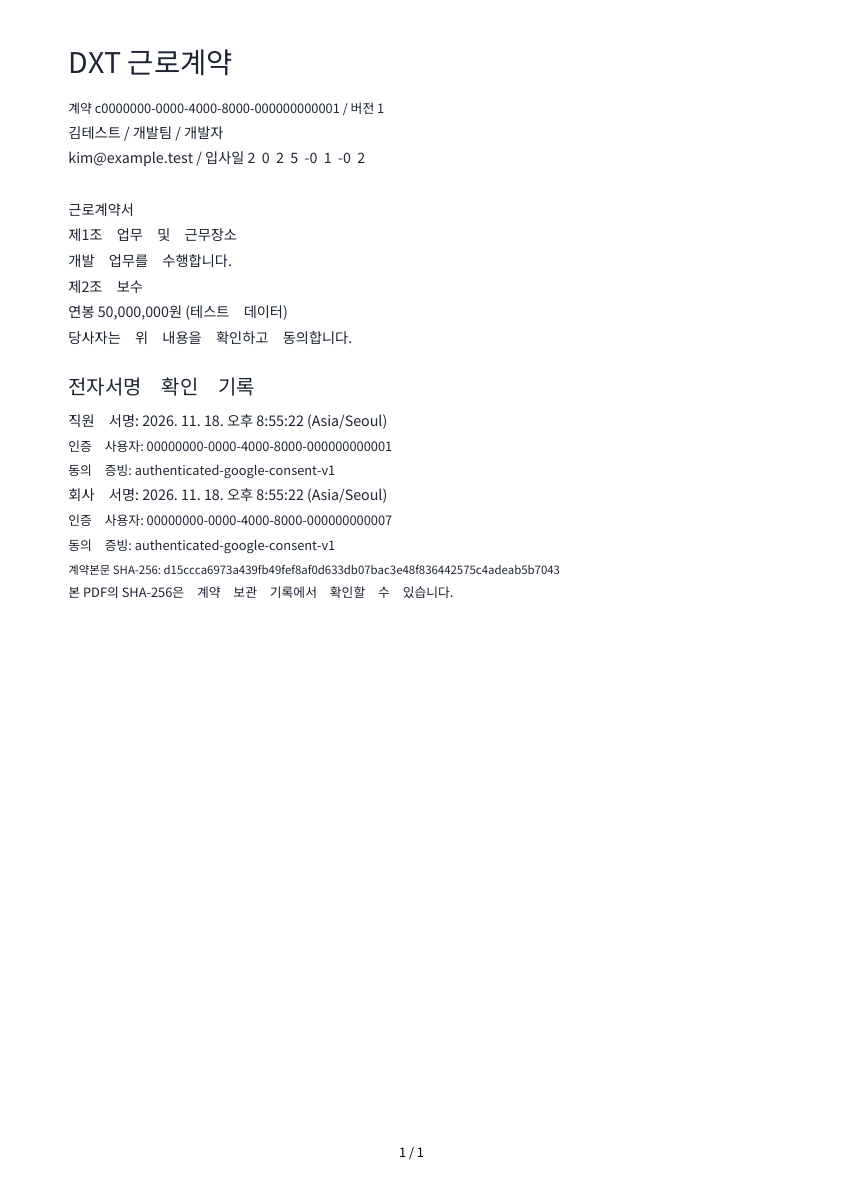
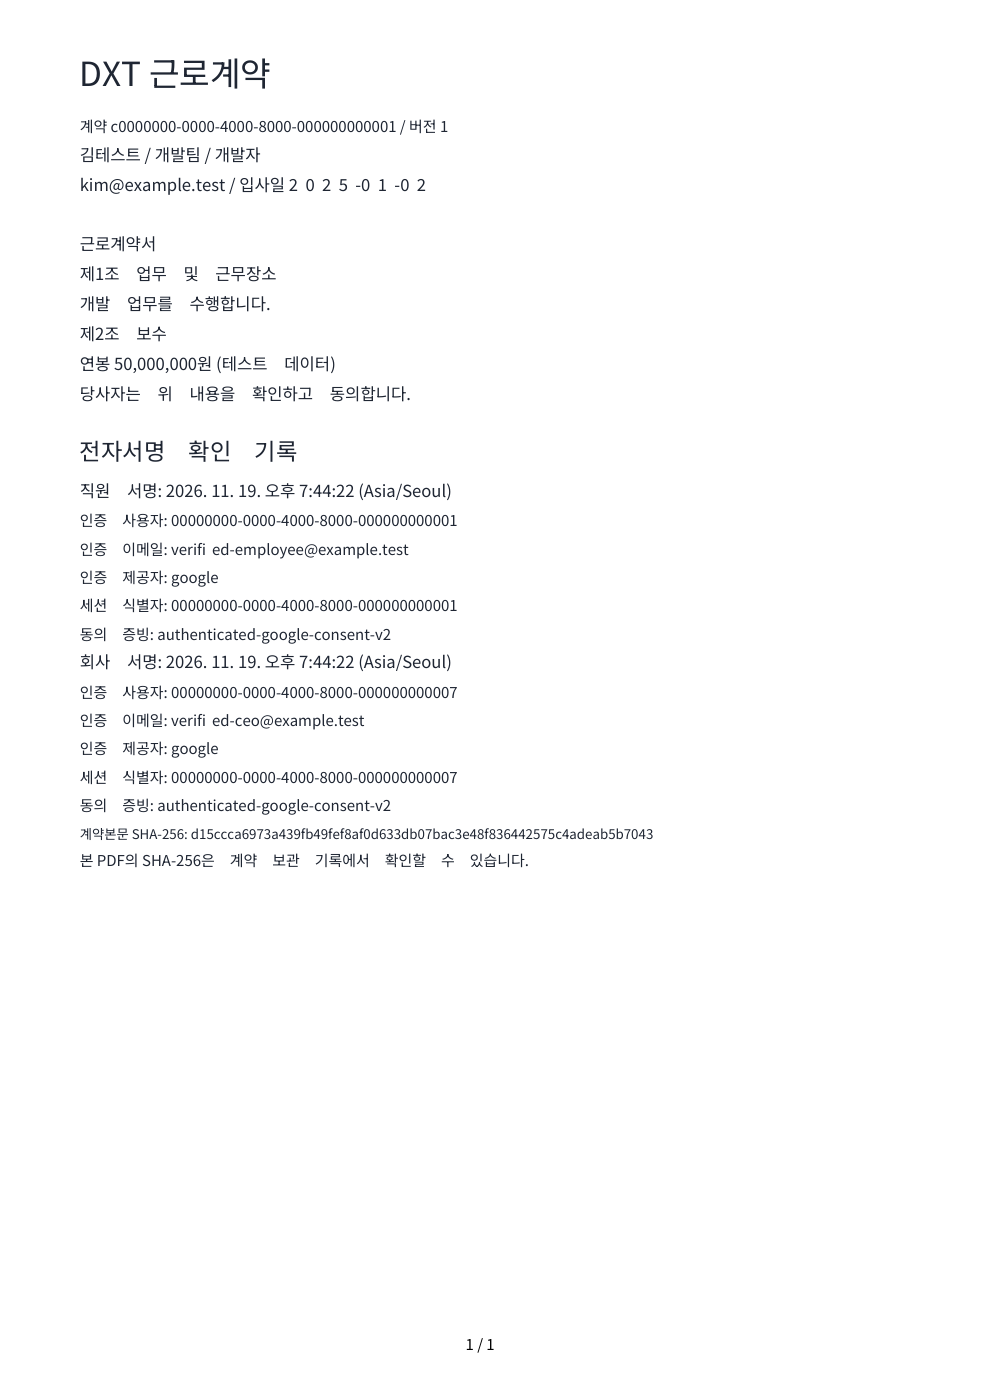
Harden contract signatures with trusted session and identity evidence

diff --git a/tests/contracts.test.ts b/tests/contracts.test.ts
@@ -81,7 +81,56 @@ test('decline is own-only and terminal; managers cannot counterfeit an employee 
 
 test('password/magic-link/non-Google sessions cannot sign despite a linked Google identity',async()=>{const db=await contractsDatabase();try{
  for(const claims of [{amr:[{method:'password'}],app_metadata:{provider:'google'}},{amr:[{method:'magiclink'}],app_metadata:{provider:'google'}},{amr:[{method:'oauth'}],app_metadata:{provider:'github'}},{}]){
- await denied(()=>asUser(db,'employee',async tx=>{await tx.query("select set_config('request.jwt.claims',$1,true)",[JSON.stringify(claims)]);return tx.query('select sign_employee_contract($1,1,$2,true)',[contractId,contractHash]);}));
- await denied(()=>asUser(db,'ceo',async tx=>{await tx.query("select set_config('request.jwt.claims',$1,true)",[JSON.stringify(claims)]);return tx.query('select sign_company_contract($1,1,$2,true)',[contractId,contractHash]);}));
+ await denied(()=>asUser(db,'employee',async tx=>{await tx.query("select set_config('request.jwt.claims',$1,true)",[JSON.stringify({session_id:idFor('employee'),...claims})]);return tx.query('select sign_employee_contract($1,1,$2,true)',[contractId,contractHash]);}));
+ await denied(()=>asUser(db,'ceo',async tx=>{await tx.query("select set_config('request.jwt.claims',$1,true)",[JSON.stringify({session_id:idFor('ceo'),...claims})]);return tx.query('select sign_company_contract($1,1,$2,true)',[contractId,contractHash]);}));
  }
+}finally{await db.close();}});
+
+test('both signers require a valid, owned, unexpired session and confirmed DB email',async()=>{const db=await contractsDatabase();try{
+ const oauth={amr:[{method:'oauth'}],app_metadata:{provider:'google'}};
+ for(const [role,rpc] of [['employee','sign_employee_contract'],['ceo','sign_company_contract']]){
+  for(const session of [undefined,null,'',123,{},'not-a-uuid','00000000-0000-0000-0000-000000000000',idFor('expense')]){
+   await denied(()=>asUser(db,role,async tx=>{await tx.query("select set_config('request.jwt.claims',$1,true)",[JSON.stringify({...oauth,session_id:session})]);return tx.query(`select ${rpc}($1,1,$2,true)`,[contractId,contractHash]);}));
+  }
+  await db.query("update auth.sessions set not_after=now()-interval '1 second' where user_id=$1",[idFor(role)]);
+  await denied(()=>asUser(db,role,tx=>tx.query(`select ${rpc}($1,1,$2,true)`,[contractId,contractHash])));
+  await db.query('update auth.sessions set not_after=null where user_id=$1',[idFor(role)]);
+  await db.query('update auth.users set email_confirmed_at=null where id=$1',[idFor(role)]);
+  await denied(()=>asUser(db,role,tx=>tx.query(`select ${rpc}($1,1,$2,true)`,[contractId,contractHash])));
+  await db.query('update auth.users set email_confirmed_at=now() where id=$1',[idFor(role)]);
+  if(role==='employee')await asUser(db,role,tx=>tx.query(`select ${rpc}($1,1,$2,true)`,[contractId,contractHash]));
+ }
+ assert.equal((await db.query("select * from employment_contract_signature where party='COMPANY'")).rows.length,0);
+}finally{await db.close();}});
+
+test('evidence is DB-sourced, has no caller inputs, survives replay, email changes and session deletion',async()=>{const db=await contractsDatabase();try{
+ for(const [role,rpc,email] of [['employee','sign_employee_contract','verified-employee@example.test'],['ceo','sign_company_contract','verified-ceo@example.test']]){
+  const args=(await db.query<{proargnames:string[]}>('select proargnames from pg_proc where proname=$1',[rpc])).rows;
+  assert.deepEqual(args,[{proargnames:['p_id','p_version','p_hash','p_consent']}]);
+  await denied(()=>asUser(db,role,tx=>tx.query(`select ${rpc}($1,1,$2,true,p_email=>'forged@example.test')`,[contractId,contractHash])));
+  await asUser(db,role,async tx=>{await tx.query("select set_config('request.jwt.claims',$1,true)",[JSON.stringify({session_id:idFor(role),email:'forged@example.test',amr:[{method:'oauth'}],app_metadata:{provider:'google'},user_metadata:{email:'forged@example.test',provider:'github',session_id:idFor('expense')}})]);await tx.query(`select ${rpc}($1,1,$2,true)`,[contractId,contractHash]);});
+  const read=()=>db.query<Signature>('select * from employment_contract_signature where contract_id=$1 and actor_id=$2',[contractId,idFor(role)]);
+  const before=(await read()).rows[0];assert.equal(before.auth_session_id,idFor(role));assert.equal(before.authenticated_email,email);assert.equal(before.auth_provider,'google');assert.equal(before.evidence,'authenticated-google-consent-v2');assert.equal(before.body_sha256,contractHash);
+  const replacement=role==='employee'?'d0000000-0000-4000-8000-000000000001':'d0000000-0000-4000-8000-000000000002';
+  await db.query('insert into auth.sessions(id,user_id) values($1,$2)',[replacement,idFor(role)]);
+  await db.query("update auth.users set email='changed@example.test' where id=$1",[idFor(role)]);
+  await asUser(db,role,async tx=>{await tx.query("select set_config('request.jwt.claims',$1,true)",[JSON.stringify({session_id:replacement,amr:[{method:'oauth'}],app_metadata:{provider:'google'}})]);await tx.query(`select ${rpc}($1,1,$2,true)`,[contractId,contractHash]);});
+  assert.deepEqual((await read()).rows[0],before);
+  await db.query('delete from auth.sessions where user_id=$1',[idFor(role)]);
+  await denied(()=>asUser(db,role,tx=>tx.query(`select ${rpc}($1,1,$2,true)`,[contractId,contractHash])));
+  assert.deepEqual((await read()).rows[0],before);
+  await denied(()=>db.query("update employment_contract_signature set authenticated_email='forged@example.test' where actor_id=$1",[idFor(role)]));
+ }
+ assert.equal((await db.query("select * from employment_contract_event where action in ('EMPLOYEE_SIGNED','COMPANY_SIGNED')")).rows.length,2);
+}finally{await db.close();}});
+
+test('evidence migration preserves old signatures without fabricating a historical session',async()=>{const db=await contractsDatabase({legacyEvidence:true});try{
+ await asUser(db,'employee',tx=>tx.query('select sign_employee_contract($1,1,$2,true)',[contractId,contractHash]));
+ const before=(await db.query<Signature>('select * from employment_contract_signature')).rows[0];
+ await db.exec((await import('node:fs')).readFileSync('supabase/migrations/20261119104141_contract_signature_evidence.sql','utf8'));
+ const after=(await db.query('select * from employment_contract_signature')).rows[0];assert.deepEqual(after,{...before,auth_session_id:null,authenticated_email:null,auth_provider:null});
+ await asUser(db,'employee',tx=>tx.query('select sign_employee_contract($1,1,$2,true)',[contractId,contractHash]));
+ assert.deepEqual((await db.query('select * from employment_contract_signature')).rows[0],after);
+ await asUser(db,'ceo',tx=>tx.query('select sign_company_contract($1,1,$2,true)',[contractId,contractHash]));
+ assert.equal((await db.query<{auth_provider:string}>("select auth_provider from employment_contract_signature where party='COMPANY'")).rows[0].auth_provider,'google');
 }finally{await db.close();}});

diff --git a/tests/e2e/contracts.spec.ts b/tests/e2e/contracts.spec.ts
@@ -1,5 +1,5 @@
 import { test,expect } from '@playwright/test';
-import { loginAs,tokenFor } from './fixtures';
+import { loginAs,tokenFor,idFor } from './fixtures';
 const own='c0000000-0000-4000-8000-000000000001',other='c0000000-0000-4000-8000-000000000002';
 test('contract UUID, history, PDF, forged RPC and private-admin boundaries',async({page,context,request})=>{
  for(const role of ['employee','leader','admin']){
@@ -21,7 +21,11 @@ test('employee views/signs, CEO signs, PDF is private and immutable',async({page
  await loginAs(context,'employee');const response=await page.goto(`/contracts/me/${own}`);expect(response?.headers()['cache-control']).toContain('no-store');
  await expect(page.getByText('직원 열람 · 버전 1', {exact:false})).toBeVisible();
  await page.screenshot({path:'docs/screenshots/contracts-employee.png',fullPage:true});
- const employeeForm=page.locator('form').filter({has:page.getByRole('button',{name:'직원 서명',exact:true})});await employeeForm.getByRole('checkbox').check();await employeeForm.getByRole('button').click();await expect(page.getByText('직원 서명 완료 · 버전 1',{exact:false})).toBeVisible();
+ const employeeForm=page.locator('form').filter({has:page.getByRole('button',{name:'직원 서명',exact:true})});await employeeForm.getByRole('checkbox').check();
+ await employeeForm.evaluate(form=>{for(const [name,value] of Object.entries({authenticated_email:'forged@example.test',auth_provider:'github',auth_session_id:'00000000-0000-0000-0000-000000000000'})){const input=document.createElement('input');input.type='hidden';input.name=name;input.value=value;form.appendChild(input);}});
+ await employeeForm.getByRole('button').click();await expect(page.getByText('직원 서명 완료 · 버전 1',{exact:false})).toBeVisible();
+ const evidence=await context.request.get(`http://localhost:54329/rest/v1/employment_contract_signature?select=authenticated_email,auth_provider,auth_session_id&contract_id=eq.${own}`,{headers:{Authorization:`Bearer ${tokenFor('employee')}`}});
+ expect(await evidence.json()).toEqual([expect.objectContaining({authenticated_email:'verified-employee@example.test',auth_provider:'google',auth_session_id:idFor('employee')})]);
  await loginAs(context,'ceo');await page.goto(`/admin/contracts/${own}`);await page.screenshot({path:'docs/screenshots/contracts-ceo.png',fullPage:true});
  const company=page.locator('form').filter({has:page.getByRole('button',{name:'CEO 회사 서명',exact:true})});await company.getByRole('checkbox').check();await company.getByRole('button').click();
  await expect(page.getByRole('link',{name:'완료 PDF 다운로드'})).toBeVisible({timeout:30000});
@@ -39,4 +43,10 @@ test('designated admin creates template and bulk drafts, previews/revises before
  await page.getByRole('button',{name:'계약 초안 생성'}).click();await expect(page.getByRole('status').filter({hasText:'2건'})).toBeVisible();await page.getByRole('link',{name:'작성한 계약 미리보기'}).click();await expect(page.getByRole('heading',{name:'발송 전 미리보기'})).toBeVisible();
  await page.getByText('본문 수정 · 새 버전 작성',{exact:true}).click();await page.getByLabel('계약본문',{exact:true}).fill('새 버전 테스트 조항');await page.getByRole('button',{name:'새 버전 저장'}).click();await expect(page.getByText('작성 중 · 버전 2',{exact:false})).toBeVisible();
  await page.getByRole('button',{name:'미리보기 확인 · 발송 준비'}).click();await expect(page.getByRole('button',{name:'직원 서명 요청',exact:true})).toBeVisible();await page.getByRole('button',{name:'직원 서명 요청',exact:true}).click();await expect(page.getByText('서명 요청 · 버전 2',{exact:false})).toBeVisible();
+});
+
+test('signature RPCs expose no client email, provider or session inputs',async({request})=>{
+ for(const [role,rpc] of [['employee','sign_employee_contract'],['ceo','sign_company_contract']])for(const [key,value] of Object.entries({p_email:'forged@example.test',p_provider:'google',p_session_id:idFor(role)})){
+  const response=await request.post(`http://localhost:54329/rest/v1/rpc/${rpc}`,{headers:{Authorization:`Bearer ${tokenFor(role)}`},data:{p_id:own,p_version:1,p_hash:'a'.repeat(64),p_consent:true,[key]:value}});expect(response.ok()).toBe(false);
+ }
 });

diff --git a/tests/e2e/mock-supabase.ts b/tests/e2e/mock-supabase.ts
@@ -78,6 +78,7 @@ const server = createServer(async (request, response) => {
      if(rpc) {
       const args: Record<string,string[]>= {create_contract_template:['p_id','p_name','p_body'],create_employment_contracts:['p_items','p_template'],revise_employment_contract:['p_id','p_version','p_body','p_hash'],transition_employment_contract:['p_id','p_version','p_action'],sign_employee_contract:['p_id','p_version','p_hash','p_consent'],sign_company_contract:['p_id','p_version','p_hash','p_consent'],complete_employment_contract:['p_id','p_version','p_path','p_hash'],leave_today:[],leave_summary:['p_employee','p_year'],leave_calendar:['p_month'],leave_reviewer:['p_employee'],submit_leave:['p_id','p_start','p_end','p_unit','p_reason','p_past_reason'],review_leave:['p_items','p_action','p_note'],adjust_leave:['p_employee','p_year','p_delta','p_reason','p_version'],enqueue_company_mail:['p_family_only','p_birthdays'],claim_company_mail:['p_family_only'],finish_company_mail:['p_id','p_token','p_message_id','p_uncertain'],start_operation:['p_id','p_kind','p_employee','p_date'],save_operation_task:['p_id','p_status','p_memo','p_owners','p_version'],save_operation_case:['p_id','p_date','p_leave','p_complete','p_version'],save_resignation_reason:['p_id','p_ciphertext','p_version'],reveal_resignation_reason:['p_id'],reserve_resignation_document:['p_id','p_filename','p_mime','p_size'],finish_resignation_document:['p_id'],record_resignation_download:['p_id'],save_announcement:['p_id','p_title','p_body','p_publish','p_version'],save_family_registration:['p_id','p_category','p_date','p_title','p_details','p_version'],publish_family_post:['p_id','p_title','p_body','p_publish','p_version'],family_notification_status:['p_id'],save_birthday_template:['p_year','p_subject','p_body','p_version'],save_employee_with_birthday:['p_id','p_profile','p_expected_version','p_birth_ciphertext','p_clear_birth','p_private_ciphertext','p_month','p_day'],save_asset:['p_id','p_values','p_expected_version'],delete_asset:['p_id','p_expected_version'],save_vault_entry:['p_id','p_kind','p_values','p_ciphertext','p_expected_version'],reveal_vault_entry:['p_id','p_kind'],delete_vault_entry:['p_id','p_kind','p_expected_version'],expense_dining_available:['p_month','p_items'],ensure_expense_claim:['p_month'],reserve_expense_attachment:['p_claim','p_filename','p_mime','p_size'],finish_expense_attachment:['p_id'],save_expense_items:['p_claim','p_items','p_reason'],submit_expense_claim:['p_claim','p_version','p_reason'],manage_expense_claim:['p_claim','p_version','p_action'],can_read_career:['p_employee'],current_employee_id:[],save_project:['p_id','p_values','p_expected_version'],save_assignment:['p_id','p_values','p_expected_version'],save_career:['p_id','p_values','p_expected_version'],delete_project_record:['p_kind','p_id','p_expected_version'],has_app_capability:['requested'],save_employee_profile:['p_id','p_profile','p_expected_version','p_birth_ciphertext','p_clear_birth','p_private_ciphertext'],save_private_hr:['p_employee_id','p_ciphertext','p_expected_version'],record_private_hr_view:['p_employee_id'],record_birth_view:['p_employee_id']};
       if(!args[rpc]) throw new Error('Unsupported test RPC');
+      if(Object.keys(input).some(key=>!args[rpc].includes(key)))throw new Error('Unknown RPC argument');
       const params=args[rpc].map(key=>key==='p_items'?JSON.stringify(input[key]):input[key] ?? null);
       const r=await tx.query<{result: unknown}>(`select public.${rpc}(${params.map((_,i)=>'$'+(i+1)).join(',')}) as result`,params);
       const value=r.rows[0].result;

diff --git a/src/lib/contracts/types.ts b/src/lib/contracts/types.ts
@@ -1,13 +1,13 @@
 export const CONTRACT_COLUMNS='id,employee_id,employee_snapshot,template_id,status,current_version,created_by,created_at,sent_at,first_viewed_at,employee_signed_at,company_signed_at,completed_at,pdf_path,pdf_sha256';
 export const VERSION_COLUMNS='contract_id,version,encrypted_body,body_sha256,created_by,created_at';
-export const SIGNATURE_COLUMNS='contract_id,version,party,actor_id,signed_at,body_sha256,evidence';
+export const SIGNATURE_COLUMNS='contract_id,version,party,actor_id,signed_at,body_sha256,evidence,auth_session_id,authenticated_email,auth_provider';
 export const EVENT_COLUMNS='id,contract_id,action,actor_id,occurred_at';
 export const TEMPLATE_COLUMNS='id,name,encrypted_body,active,created_by,created_at';
 export type ContractStatus='DRAFT'|'READY_TO_SEND'|'SENT'|'VIEWED'|'EMPLOYEE_SIGNED'|'COMPLETED'|'CANCELLED'|'DECLINED';
 export const STATUS_LABELS:Record<ContractStatus,string>={DRAFT:'작성 중',READY_TO_SEND:'발송 준비',SENT:'서명 요청',VIEWED:'직원 열람',EMPLOYEE_SIGNED:'직원 서명 완료',COMPLETED:'완료',CANCELLED:'취소',DECLINED:'서명 거절'};
 export interface Contract {id:string;employee_id:string;employee_snapshot:{name:string;department:string|null;title:string;email:string;hire_date:string};template_id:string|null;status:ContractStatus;current_version:number;created_by:string;created_at:string;sent_at:string|null;first_viewed_at:string|null;employee_signed_at:string|null;company_signed_at:string|null;completed_at:string|null;pdf_path:string|null;pdf_sha256:string|null}
 export interface ContractVersion {contract_id:string;version:number;encrypted_body:string;body_sha256:string;created_by:string;created_at:string}
-export interface Signature {contract_id:string;version:number;party:'EMPLOYEE'|'COMPANY';actor_id:string;signed_at:string;body_sha256:string;evidence:string}
+export interface Signature {contract_id:string;version:number;party:'EMPLOYEE'|'COMPANY';actor_id:string;signed_at:string;body_sha256:string;evidence:string;auth_session_id:string|null;authenticated_email:string|null;auth_provider:string|null}
 export interface ContractEvent {id:string;contract_id:string;action:string;actor_id:string|null;occurred_at:string}
 export interface Template {id:string;name:string;encrypted_body:string;active:boolean;created_by:string;created_at:string}
 export const seoulTime=(value:string|null)=>value?new Intl.DateTimeFormat('ko-KR',{timeZone:'Asia/Seoul',dateStyle:'medium',timeStyle:'medium'}).format(new Date(value)):'—';

diff --git a/tests/contracts-fixture.ts b/tests/contracts-fixture.ts
@@ -8,10 +8,12 @@ export const contractId='c0000000-0000-4000-8000-000000000001',otherContractId='
 export const contractBody='근로계약서\n제1조 업무 및 근무장소\n개발 업무를 수행합니다.\n제2조 보수\n연봉 50,000,000원 (테스트 데이터)\n당사자는 위 내용을 확인하고 동의합니다.';
 export const contractHash=createHash('sha256').update(contractBody).digest('hex');
 export function contractItem(id:string,employee_id=personId,version=1){return {id,employee_id,body:encryptValue(contractBody,`contract:${id}:${version}`,ring),hash:contractHash};}
-export async function contractsDatabase(){const db=await leaveDatabase();
+export async function contractsDatabase(options:{legacyEvidence?:boolean}={}){const db=await leaveDatabase();
  await db.exec("create table auth.identities(user_id uuid references auth.users(id),provider text); insert into auth.identities select id,'google' from auth.users;");
- await db.exec(`create function auth.jwt() returns jsonb language sql as $$select coalesce(nullif(current_setting('request.jwt.claims',true),'')::jsonb,'{"amr":[{"method":"oauth"}],"app_metadata":{"provider":"google"}}'::jsonb)$$;`);
+ await db.exec("create table auth.sessions(id uuid primary key,user_id uuid references auth.users(id),not_after timestamptz); insert into auth.sessions select id,id,null from auth.users;");
+ await db.exec(`create function auth.jwt() returns jsonb language sql as $$select coalesce(nullif(current_setting('request.jwt.claims',true),'')::jsonb,'{"amr":[{"method":"oauth"}],"app_metadata":{"provider":"google"}}'::jsonb || jsonb_build_object('session_id',auth.uid()))$$;`);
  await db.exec(readFileSync('supabase/migrations/20261118114126_employment_contracts.sql','utf8'));
+ if(!options.legacyEvidence)await db.exec(readFileSync('supabase/migrations/20261119104141_contract_signature_evidence.sql','utf8'));
  await db.exec('grant insert on storage.objects to service_role');
  await asUser(db,'designated',tx=>tx.query('select create_employment_contracts($1,null)',[JSON.stringify([contractItem(contractId),contractItem(otherContractId,colleagueId)])]));
  for(const id of [contractId,otherContractId])for(const action of ['READY_TO_SEND','SENT'])await asUser(db,'designated',tx=>tx.query('select transition_employment_contract($1,1,$2)',[id,action]));

diff --git a/src/lib/contracts/pdf.ts b/src/lib/contracts/pdf.ts
@@ -30,7 +30,7 @@ export async function contractPdf(c:Contract,body:string,hash:string,signatures:
  wrap('DXT 근로계약',20);wrap(`계약 ${c.id} / 버전 ${c.current_version}`,9);
  const s=c.employee_snapshot;wrap(`${s.name} / ${s.department||'미배정'} / ${s.title}`);wrap(`${s.email} / 입사일 ${s.hire_date}`);line('');
  wrap(body);line('');wrap('전자서명 확인 기록',14);
- for(const sign of signatures){wrap(`${sign.party==='EMPLOYEE'?'직원':'회사'} 서명: ${seoulTime(sign.signed_at)} (Asia/Seoul)`);wrap(`인증 사용자: ${sign.actor_id}`,9);wrap(`동의 증빙: ${sign.evidence}`,9);}
+ for(const sign of signatures){wrap(`${sign.party==='EMPLOYEE'?'직원':'회사'} 서명: ${seoulTime(sign.signed_at)} (Asia/Seoul)`);wrap(`인증 사용자: ${sign.actor_id}`,9);wrap(`인증 이메일: ${sign.authenticated_email ?? '이전 증적: 미기록'}`,9);wrap(`인증 제공자: ${sign.auth_provider ?? '이전 증적: 미기록'}`,9);wrap(`세션 식별자: ${sign.auth_session_id ?? '이전 증적: 미기록'}`,9);wrap(`동의 증빙: ${sign.evidence}`,9);}
  wrap(`계약본문 SHA-256: ${hash}`,8);wrap('본 PDF의 SHA-256은 계약 보관 기록에서 확인할 수 있습니다.',9);
  pdf.getPages().forEach((p,i)=>p.drawText(`${i+1} / ${pdf.getPageCount()}`,{x:280,y:30,size:9,font}));
  return Buffer.from(await pdf.save());

diff --git a/docs/EMPLOYMENT_CONTRACT_DELIVERY.md b/docs/EMPLOYMENT_CONTRACT_DELIVERY.md
@@ -98,3 +98,39 @@ PGlite/V8 native WASM assertion during one parallel run; Node 22 completed norma
 noted above. Screenshots: contracts-employee/admin/ceo/completed/pdf in docs/screenshots.
 No live migration, real Google account signing, hosted Storage check or deployment was
 performed by this PR. Existing staging evidence files are preserved.
+
+## PR #21 signature-evidence review follow-up
+
+`20261119104141_contract_signature_evidence.sql` adds immutable `auth_session_id`,
+`authenticated_email` and `auth_provider` to the existing signature row. Both original
+RPC interfaces remain contract/version/hash/consent only. A non-exposed, execute-revoked
+private helper reads the trusted JWT session UUID, verifies its matching auth.sessions
+user and not_after, and captures confirmed auth.users.email and auth.identities.provider.
+Google OAuth AMR/provider checks remain mandatory; user_metadata and form fields are
+never evidence sources. Session IDs are identifiers, not access/refresh tokens; no tokens
+are persisted. The private PDF prints the full identifier, email and provider alongside
+actor UUID, DB time and exact document hash. No evidence values are added to logs/events.
+
+Session lookup follows the [Supabase session documentation](https://supabase.com/docs/guides/auth/sessions).
+Deleted, missing, malformed, other-user and explicitly expired sessions fail closed.
+Supabase inactivity/single-session settings still have their documented refresh-time
+semantics. Auth configuration and live Google sessions require staging verification.
+
+Signatures use evidence protocol `authenticated-google-consent-v2`. A different valid
+session/email on retry cannot rewrite the first signature or create another event.
+The session UUID deliberately has no foreign key to auth.sessions, so sign-out and
+routine session cleanup cannot erase evidence. Existing pre-upgrade signatures/PDFs
+are never rewritten or backfilled with guessed historical values. Nullable columns and
+a NOT VALID check preserve those old rows while requiring the full tuple on every new
+insert; old PDF-generation records explicitly show “이전 증적: 미기록” if unavailable.
+If legacy rows exist, do not validate that constraint or claim they have v2 evidence.
+IP/User-Agent capture is deferred: no untrusted forwarding headers are stored as evidence.
+
+Regression coverage includes both signers, missing/malformed/foreign/expired/deleted
+sessions, unconfirmed email, rejected additional RPC arguments, ignored forged HTML
+fields/user_metadata, email changes and new-session replay, immutable evidence after
+session deletion, and migration of legacy signatures. Full check results are recorded
+in the PR; all use synthetic fixtures, not live staging accounts.
+
+Review follow-up local result: lint/build/typecheck pass, 64 unit/database tests and
+52 browser tests pass. Updated PDF rasterization confirms both evidence records.

diff --git a/docs/PERMISSIONS.md b/docs/PERMISSIONS.md
@@ -156,3 +156,7 @@ Every domain PR that contains employee-specific or sensitive records must includ
   contract employee_id, and requires a Google identity. Client employee/role parameters
   are never accepted for signing. Company signing uses an independent checked RPC.
 - No authenticated Storage access, including CEO: downloads reauthorize on the server.
+
+Signature evidence v2 additionally freezes the DB-authenticated email, Google provider
+and validated auth session UUID. These values cannot be supplied to signing RPCs.
+Historical v1 evidence is preserved without fabricated backfill.

diff --git a/docs/DATA_MODEL.md b/docs/DATA_MODEL.md
@@ -301,3 +301,7 @@ Use for sensitive/admin writes.
 - Templates and versions are never overwritten; revision creates the next version and
   returns an unsent contract to DRAFT. Once sent, body edits require cancellation and a
   new contract. COMPLETED, CANCELLED and DECLINED are terminal.
+
+Signature evidence v2 additionally freezes the DB-authenticated email, Google provider
+and validated auth session UUID. These values cannot be supplied to signing RPCs.
+Historical v1 evidence is preserved without fabricated backfill.
